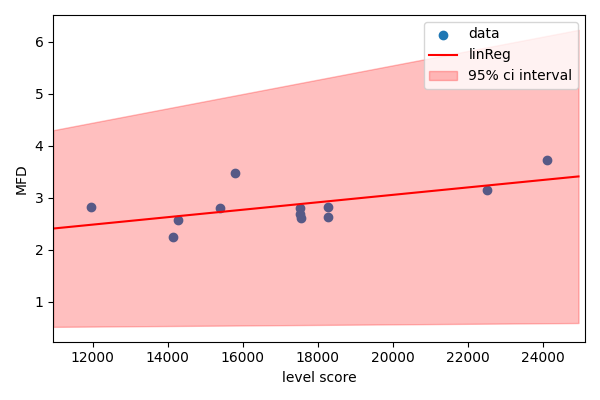
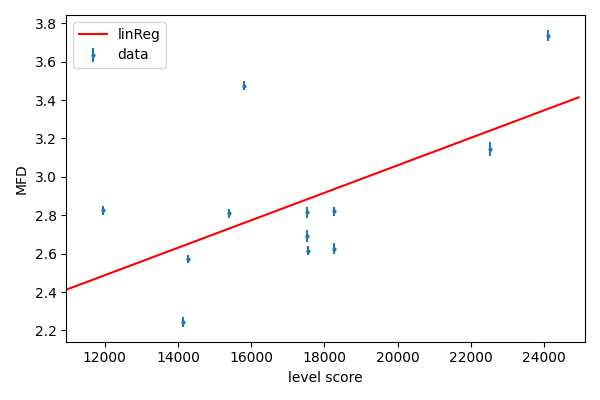
formatting for mfd over score plot with lin reg

diff --git a/analysis/gaze/fixations.py b/analysis/gaze/fixations.py
@@ -466,10 +466,17 @@ def plot_avg_fixation_distance_per_subject():
 
     # linear regression:
 
+    # df = df[['subject_id', 'score', 'weighted_fix_distance_manhattan']].groupby(['subject_id', 'score'])[
+    #     'weighted_fix_distance_manhattan'].mean().reset_index()
     df = df[['subject_id', 'score', 'weighted_fix_distance_manhattan']].groupby(['subject_id', 'score'])[
-        'weighted_fix_distance_manhattan'].mean().reset_index()
+        'weighted_fix_distance_manhattan'].agg(['mean', 'sem', 'std'])
+    df.columns = ['mfd', 'mfd_sem', 'mfd_std']
+    df.reset_index(inplace=True)
+
     x = df['score']
-    y = df['weighted_fix_distance_manhattan']
+    y = df['mfd']
+    sem = df['mfd_sem']
+    std = df['mfd_std']
     res = scipy.stats.linregress(x, y, alternative='greater')
 
     print('Linear Regression for avg Fixation Distance per Level Score:')
@@ -500,9 +507,10 @@ def plot_avg_fixation_distance_per_subject():
     print(f"intercept (95%): {res.intercept:.6f} +/- {ts * res.intercept_stderr:.6f}")
 
     fig, ax = plt.subplots(figsize=paper_plot_utils.figsize)
-    plt.scatter(x, y, label='data')
+    # plt.scatter(x, y, label='data')
+    plt.errorbar(x, y, yerr=sem, fmt='o', markersize=2, label='data')  # TODO sem or std for errorbar?
     plt.plot(xx, res.intercept + res.slope * xx, 'r', label='linReg')
-    plt.fill_between(xx, bounds_min, bounds_max, color='r', alpha=0.25, label='95% ci interval')
+    # plt.fill_between(xx, bounds_min, bounds_max, color='r', alpha=0.25, label='95% ci interval')
     plt.xlim(xlim)
     plt.xlabel('level score')
     plt.ylabel('MFD')
